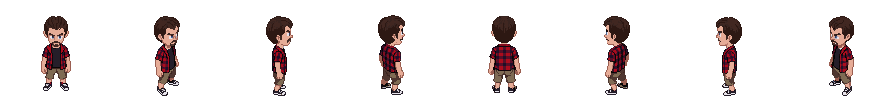
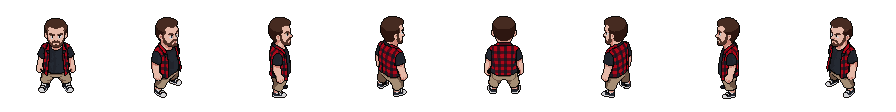
Aplica as respostas do Joao: casa sem zumbi, terreno do predio, Antonio gordo
As respostas de 21/10 sobre o cerco da regiao rosa e a arte:

- mapa.gd: nenhum ponto de zumbi a menos de 1.300 px de onde voce nasce
  ("precisa tirar esses zumbis muito colados na casa do personagem no
  comeco"); sairam os tres da rua de cima.
- O gramado do Predio abandonado vira terreno do predio: muro de bloco na
  beira da rua SE e da calcada do fundo, com tres buracos de acesso, "ja
  que e abandonado". O cerco continua fechado e tudo dentro se alcanca.
- A arte do muro de reboco gerada (aprovada) entra em rua/arte/barreiras/,
  e o muro pega a cor do lote que o dado ja trazia (branco, amarelo, rosa,
  verde-agua), multiplicando a arte off-white.
- O Antonio v2, mais gordo (barrigao: ombro 1,4 e quadril 1,7 na proporcao
  do PixelLab), no lugar do v1; o retrato continua o do v1.
- narrativa.md: as decisoes do tutorial - a cena de abertura na rua perto
  do Antonio, dois dias de tutorial, o agachar ("eu me escondo, quem eu
  vejo nao"), o dia 1 desarmado.

Os nove conferidores passam.

diff --git a/README.md b/README.md
@@ -158,6 +158,7 @@ O layout do mapa é **dado, não cena**: não existe `mapa.tscn`.
 | `rua/ruas.gd` | **calçada e rua como polígonos** (15/10): o chão feito pelo homem sai do TileMap e é pintado com textura e meio-fio, de traço reto, por cima dele — em tile de 32 px toda diagonal virava escada. Pinta também o lote de grama que fica dentro da rua |
 | `rua/arte/chao/cheio-<classe>.png` | o ladrilho de 256 × 256 do tile cheio de cada classe, com as variações do chao.gd, que `ruas.gd` usa como textura; gerado por `design/ladrilhar_cheio.gd` (`Godot --headless --path . --script design/ladrilhar_cheio.gd`) |
 | `design/paleta_de_classe.js` | gera um grupo de `paleta.json` a partir do tileset bruto de uma classe que a regra geral deixa com a cor errada (a água veio lodo verde, a mata v2 veio roxa): matiz e saturação fixos, valor por regra; os argumentos estão no cabeçalho do script. Depois, `retocar_chao.gd` |
+| `rua/arte/barreiras/` | a arte dos muros e cercas, gerada no PixelLab a partir de um molde pintado: por tipo, `<tipo>-face.png` (um período de pilar a pilar, repetido ao longo do muro), `<tipo>-topo.png` e, se tem, `<tipo>-pilar.png`. Tipo sem arquivo aqui sai cinza. O muro de reboco é um só e ganha a cor de cada lote (`cor` no dado: branco, amarelo, rosa, verde-água) |
 | `rua/arte/objetos/` | os sprites dos objetos da rua e dos móveis (árvores, carro, motorhome, mato, bomba, móveis), um PNG por tipo, que `vasculhavel.gd` e `cenario.gd` procuram pelo nome; a caixa de papelão sai de `desenhar_texturas.js` |
 | `design/recortar_fundo.gd` | tira o fundo chapado de um sprite gerado que veio com fundo apesar do pedido (inunda a partir das bordas): `Godot --headless --path . --script design/recortar_fundo.gd -- <entrada.png> <saida.png> [tolerância]` |
 | `design/juntar_folha.js` | junta linhas de animação de uma folha nova do PixelLab (outra conta) na folha antiga do mesmo boneco: `node design/juntar_folha.js <antiga.json> <nova.json> <saida.json> [animação...]` |

diff --git a/design/narrativa.md b/design/narrativa.md
@@ -171,8 +171,20 @@ tela, missão de buscar e entregar, **agachar** (não existe) e uma regra de
 **se esconder** (hoje só existe a visão em cone cortada por parede). Já
 existe: correr (Shift), a visão do zumbi, o tiro e a Beretta 9mm.
 
-⬜ **Começar desarmado**: a 9mm como recompensa troca a regra de 30/09/2026
-("você começa armado"), pelo menos no dia 1.
+**Decidido pelo João em 21/10/2026, para a entrega do tutorial:**
+
+- **A cena de abertura** é na rua perto da casa do Antônio: o protagonista
+  anda meio sem rumo, um zumbi o pega desprevenido e o Antônio o mata,
+  salvando o protagonista.
+- **O tutorial tem dois dias.** O dia 1 é o do roteiro acima (portão,
+  rádio, o favor no Restaurante, a 9mm); o **dia 2** é para explorar um pouco
+  e ter a chance de usar a arma.
+- **Agachar:** *"eu me escondo, quem eu vejo não"* — agachado atrás de
+  cobertura, o zumbi não te vê; você continua vendo ele.
+- **O dia 1 começa desarmado**: a 9mm é a recompensa do favor.
+- **As falas** (o portão, o rádio, o que o Antônio pede no Restaurante) são
+  do João, a escrever.
+- Nenhum zumbi colado na sua casa no começo.
 - **A casa do Antônio** é a mais fortificada do bairro e fica ao lado da sua
   (João, 20/10/2026): a vizinha colada a leste, na mesma calçada (prédio 36
   do traçado, no ponto (1214, 647) do desenho). Ainda sem rótulo no mapa.
